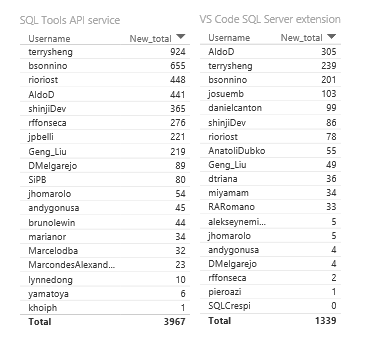
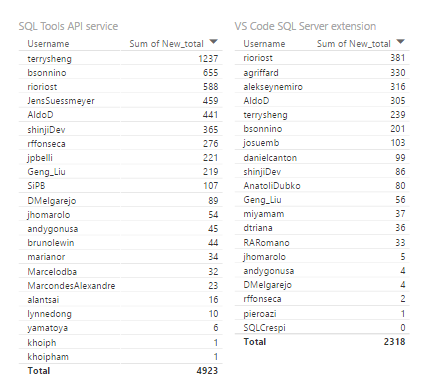
updated dashboard and backup of the 3-16 one

Changed region(s): [[0.541, 0.0311, 0.9617, 0.9322], [0.0301, 0.0311, 0.3306, 0.9633], [0.3005, 0.0932, 0.5109, 0.9633]]

diff --git a/dashboards/Dashboard-as-of-2017_03_16.md b/dashboards/Dashboard-as-of-2017_03_16.md
@@ -1,11 +1,11 @@
 ## Translation Status as of 2017-03-16
 
 ### 
-![Translation Status](https://github.com/Microsoft/Localization/blob/master/dashboards/TranslationStatus.PNG?raw=true)
+![Translation Status](https://github.com/Microsoft/Localization/tree/master/dashboards/img/TranslationStatus-2017-03-16.PNG?raw=true)
 
 ## Contributors and Contributions
 ### 
-![Contributors and Contributions](https://github.com/Microsoft/Localization/blob/master/dashboards/ContributorsContributions.PNG?raw=true)
+![Contributors and Contributions](https://github.com/Microsoft/Localization/blob/master/dashboards/img/ContributorsContributions-2017-03-16.PNG?raw=true)
 
 
 ***
